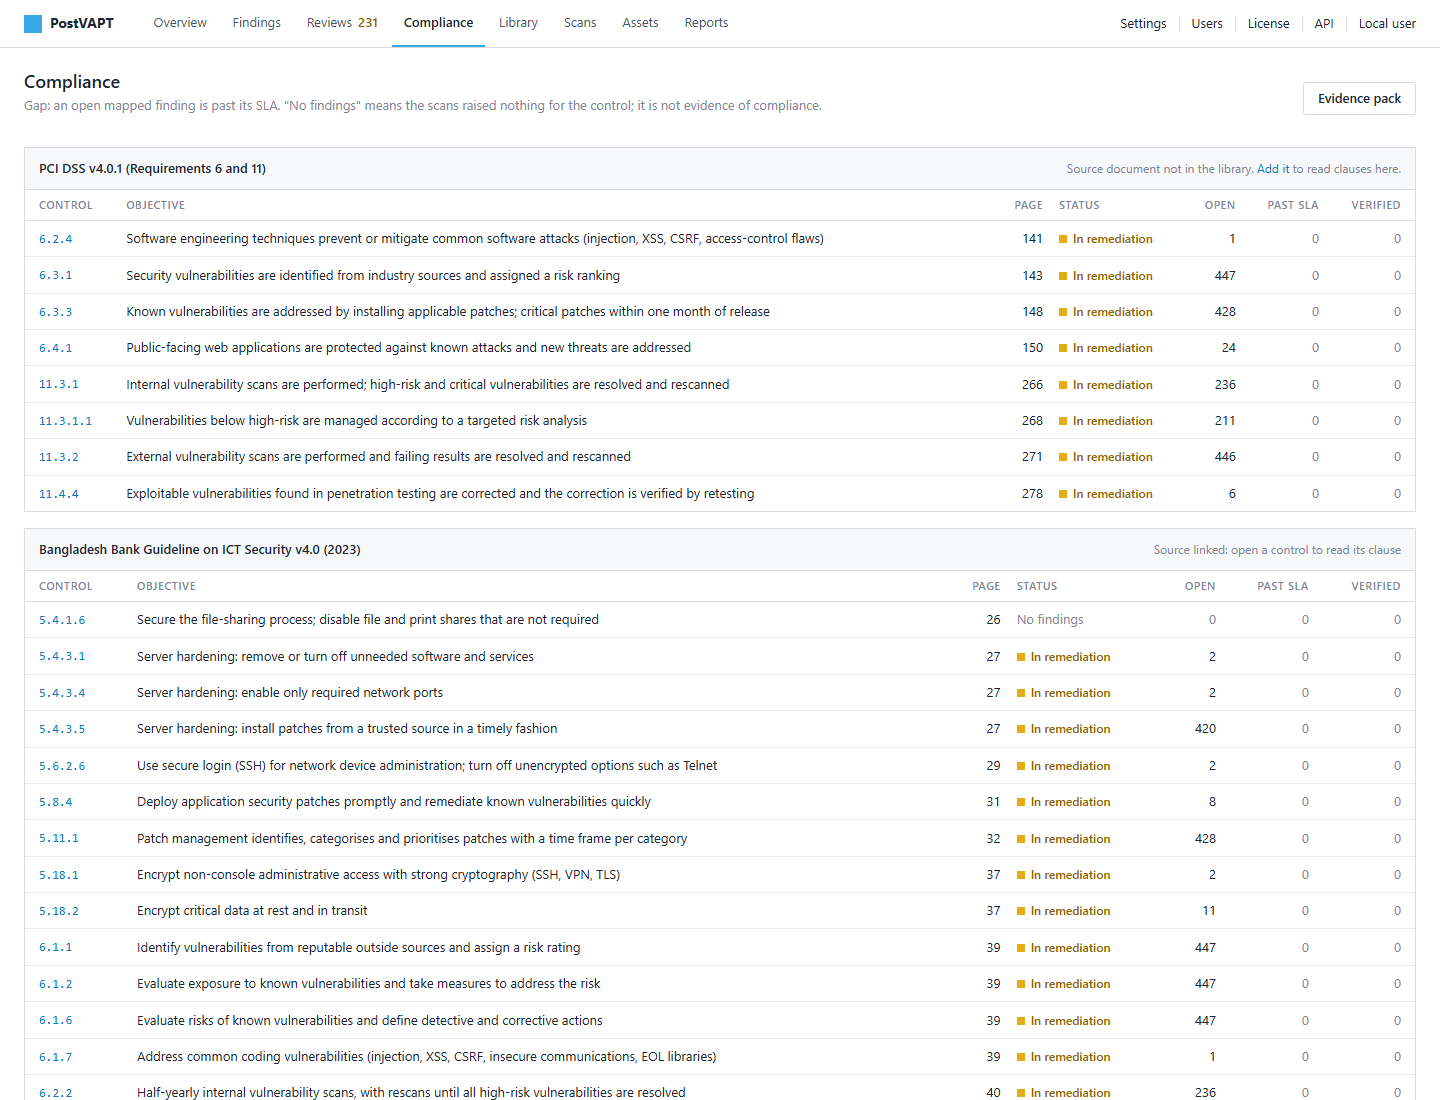
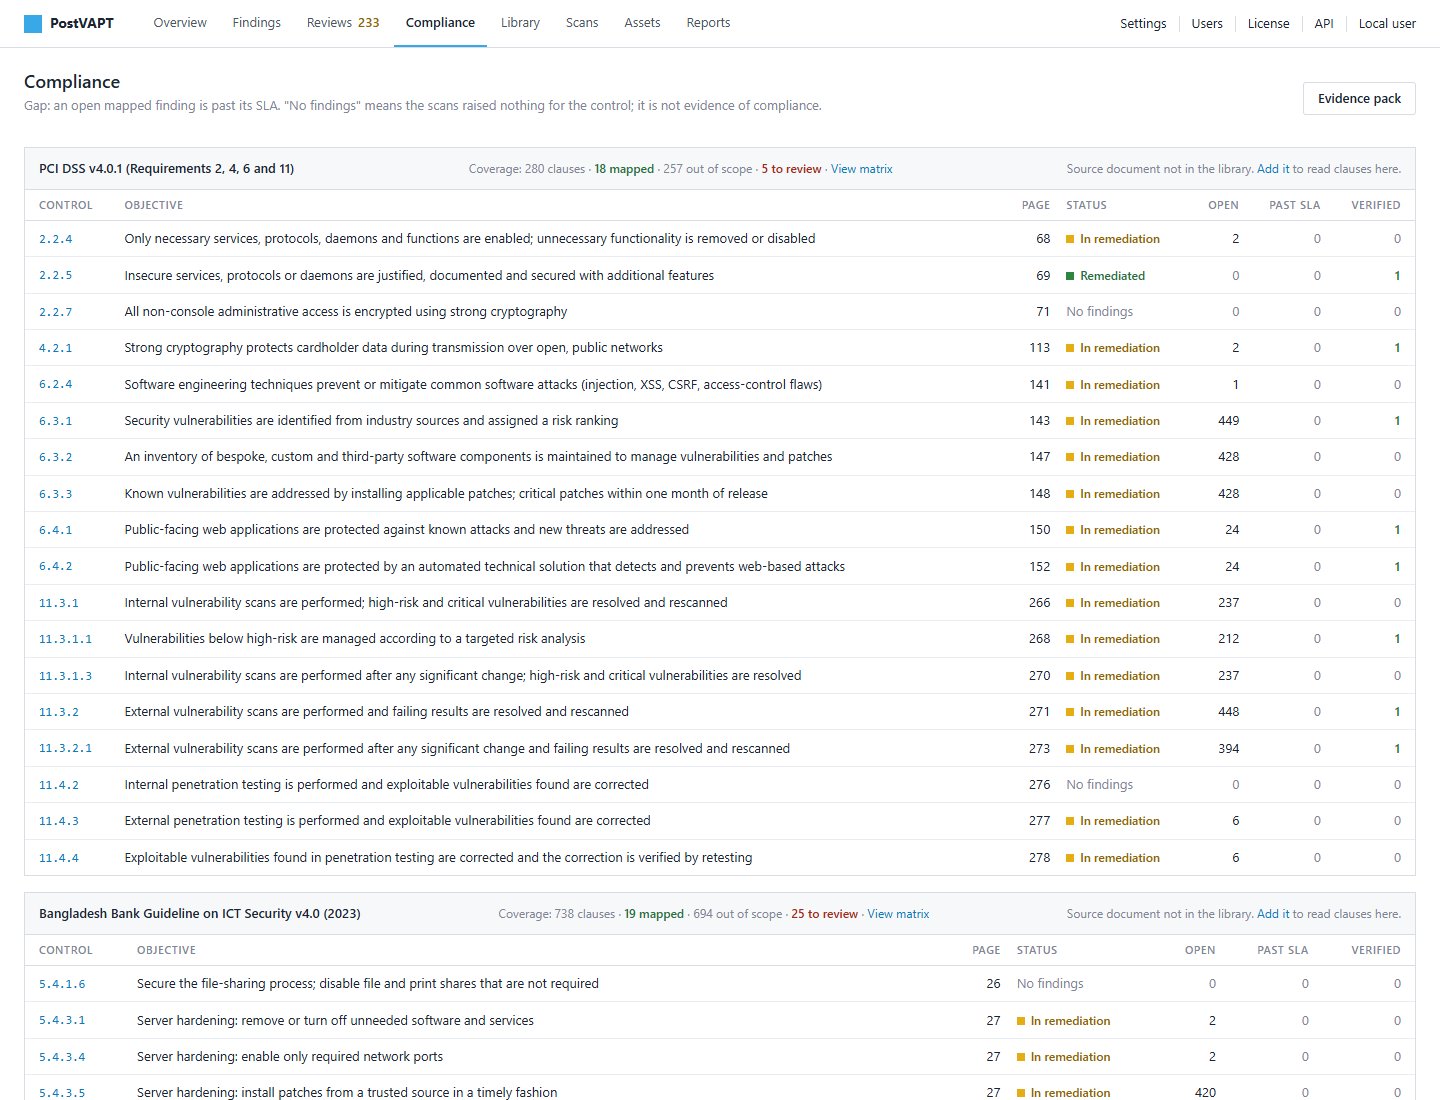
Docs: coverage matrix and 0.1.2 release files

diff --git a/USER_MANUAL.md b/USER_MANUAL.md
@@ -131,10 +131,10 @@ of text that starts with `PVL1-`. While you wait, you can already try the demo
 
 1. Open the **[Releases page](https://github.com/mstnisa/postvapt/releases/latest)**.
 2. Under **Assets**, click the file for your computer:
-   - Windows: `postvapt-0.1.1-windows-x86_64.zip`
-   - Linux: `postvapt-0.1.1-linux-x86_64.zip` (Ubuntu 24.04 or newer, Debian 13,
+   - Windows: `postvapt-0.1.2-windows-x86_64.zip`
+   - Linux: `postvapt-0.1.2-linux-x86_64.zip` (Ubuntu 24.04 or newer, Debian 13,
      Fedora 39 or newer; on older Linux such as Ubuntu 22.04, use Docker)
-   - Docker: `postvapt-0.1.1-docker.tar.gz`
+   - Docker: `postvapt-0.1.2-docker.tar.gz`
 
 ### Step 3: Install and start
 
@@ -155,7 +155,7 @@ Your data is saved automatically in `%APPDATA%\PostVAPT`.
 #### On Linux
 
 ```bash
-unzip postvapt-0.1.1-linux-x86_64.zip -d ~/postvapt
+unzip postvapt-0.1.2-linux-x86_64.zip -d ~/postvapt
 cd ~/postvapt/postvapt
 ./postvapt-bin serve --open
 ```
@@ -163,10 +163,10 @@ cd ~/postvapt/postvapt
 #### With Docker
 
 ```bash
-docker load -i postvapt-0.1.1-docker.tar.gz
-docker run --rm -v postvapt-data:/data postvapt:0.1.1 license activate <your-key>
-docker run --rm -it -v postvapt-data:/data postvapt:0.1.1 user add admin --role admin
-docker run -d --name postvapt -p 8000:8000 -v postvapt-data:/data postvapt:0.1.1
+docker load -i postvapt-0.1.2-docker.tar.gz
+docker run --rm -v postvapt-data:/data postvapt:0.1.2 license activate <your-key>
+docker run --rm -it -v postvapt-data:/data postvapt:0.1.2 user add admin --role admin
+docker run -d --name postvapt -p 8000:8000 -v postvapt-data:/data postvapt:0.1.2
 ```
 
 Then open `http://<server-address>:8000` and sign in as `admin`.
@@ -280,6 +280,27 @@ Click a control to see its official text, the source page, and every finding
 mapped to it:
 
 ![Control details](docs/images/06-control.png)
+
+#### Coverage matrix: was any clause missed?
+
+![Coverage matrix](docs/images/14-coverage.png)
+
+PostVAPT maps findings only to the controls that scan, penetration-test or retest
+results can prove. To show that nothing was forgotten, the coverage matrix lists
+**every** numbered clause of both documents with a decision:
+
+| Decision | Meaning |
+|---|---|
+| **Mapped** | Findings are linked to this clause; it appears on the Compliance page. |
+| **Out of scope** | Scan results cannot prove this clause (for example a written policy or staff training). The reason says what evidence it needs instead. |
+| **To review** | A technical clause that scans might prove. An analyst still has to decide. |
+
+Open it with **View matrix** next to each framework on the Compliance page, and
+use the buttons to show only one decision. PCI DSS v4.0.1 has 280 clauses
+(18 mapped, 257 out of scope, 5 to review); the Bangladesh Bank guideline has
+738 (19 mapped, 694 out of scope, 25 to review). The list was checked against
+the official PDFs, so no clause number is missing. Only clause numbers, pages
+and PostVAPT's own reasons are shown, never the licensed text.
 
 ### Scans: import and history
 

diff --git a/README.md b/README.md
@@ -49,6 +49,9 @@ every task explained step by step, with pictures.
   closed.
 - **Audit-ready in one click.** An evidence pack mapped to PCI DSS v4.0 and
   Bangladesh Bank ICT Security Guideline v4.0 controls, with clause and page.
+- **No clause left unchecked.** A coverage matrix records a decision for every
+  clause of both documents (280 in PCI DSS, 738 in the Bangladesh Bank guideline):
+  mapped, out of scope with the reason, or still to review.
 - **People stay in control.** Lowering a scanner's severity needs an analyst's
   approval, and every action is recorded.
 - **Private by design.** Runs on-premise, works offline, and your scan data is
@@ -73,9 +76,9 @@ More screens in the [User Manual](USER_MANUAL.md#5-a-tour-of-the-screens).
 
 | Platform | File |
 |---|---|
-| Windows 10/11 (64-bit) | `postvapt-0.1.1-windows-x86_64.zip` |
-| Linux (64-bit: Ubuntu 24.04+, Debian 13+, Fedora 39+; older Linux: use Docker) | `postvapt-0.1.1-linux-x86_64.zip` |
-| Docker (any Linux server) | `postvapt-0.1.1-docker.tar.gz` |
+| Windows 10/11 (64-bit) | `postvapt-0.1.2-windows-x86_64.zip` |
+| Linux (64-bit: Ubuntu 24.04+, Debian 13+, Fedora 39+; older Linux: use Docker) | `postvapt-0.1.2-linux-x86_64.zip` |
+| Docker (any Linux server) | `postvapt-0.1.2-docker.tar.gz` |
 
 Installation for each platform: [User Manual, section 4](USER_MANUAL.md#4-install-postvapt-in-5-minutes).
 
